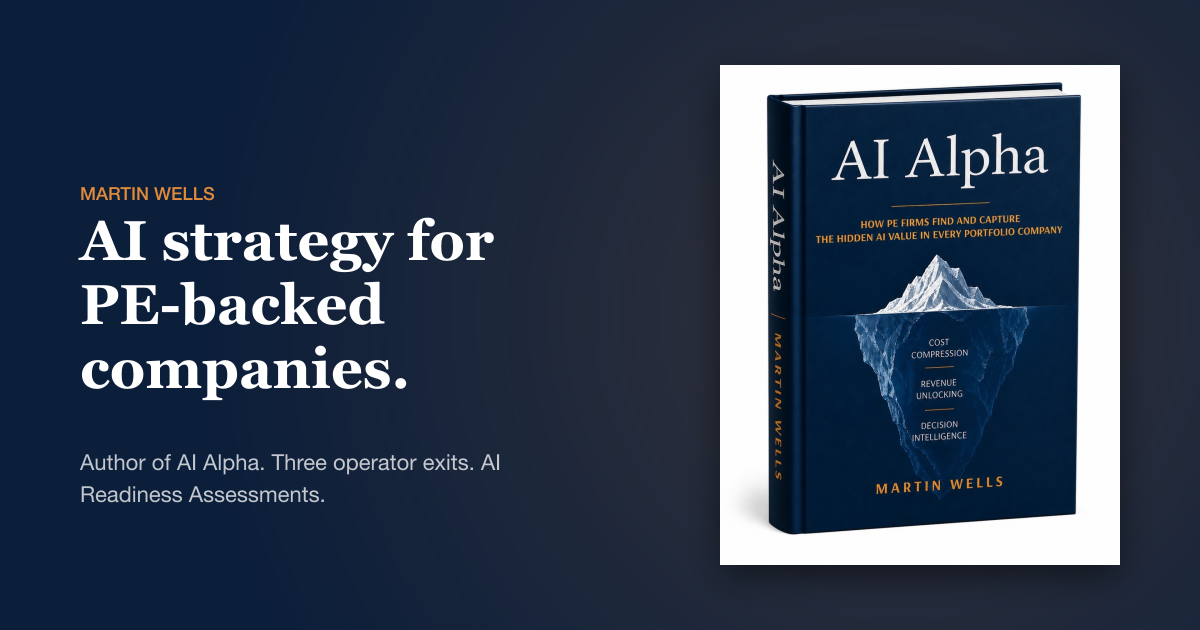
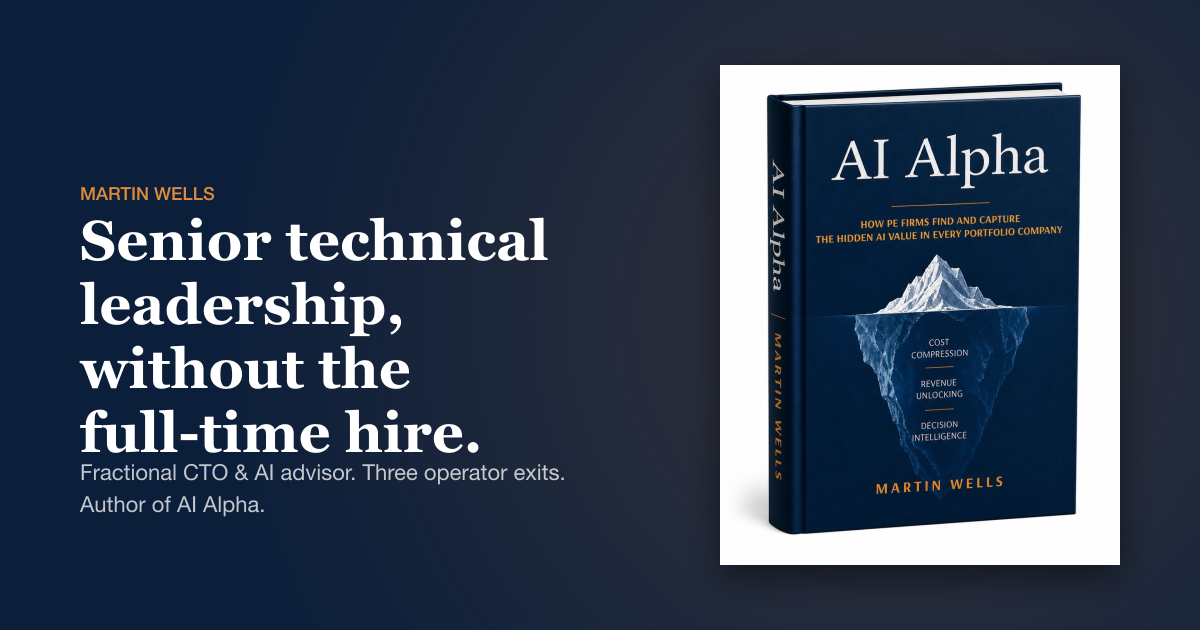
Reposition martinwells.com as a fractional CTO site
Shift the hero, offer, and tagline back to a fractional-CTO-for-startups
positioning. Keep AI Alpha as a secondary credibility prop — small book
treatment in the hero plus a dedicated short Book section above contact.

Sections: Hero, Proof (unchanged), Engagement (was Assessment), Book,
Contact.

OG image regenerated with the new headline.

Changed region(s): [[0.0617, 0.3317, 0.4625, 0.8143]]

diff --git a/frontend/projects/martinwells/Home.tsx b/frontend/projects/martinwells/Home.tsx
@@ -6,9 +6,9 @@ import { Calendar, Mail, BookOpen, Menu, X } from 'lucide-react'
 import './styles.css'
 
 const NAV_LINKS = [
-  { label: 'The Book', href: '#book' },
   { label: 'Track Record', href: '#proof' },
-  { label: 'The Assessment', href: '#offer' },
+  { label: 'The Engagement', href: '#offer' },
+  { label: 'The Book', href: '#book' },
   { label: 'Contact', href: '#contact' },
 ]
 
@@ -91,22 +91,21 @@ function Navbar() {
 
 function HeroSection() {
   return (
-    <section id="book" className="relative pt-28 pb-20 md:pt-32 md:pb-28 px-6 overflow-hidden">
-      <div className="max-w-6xl mx-auto grid md:grid-cols-[1.2fr_1fr] gap-12 md:gap-16 items-center">
+    <section className="relative pt-28 pb-20 md:pt-32 md:pb-28 px-6 overflow-hidden">
+      <div className="max-w-6xl mx-auto grid md:grid-cols-[1.4fr_1fr] gap-12 md:gap-16 items-center">
         <motion.div
           initial={{ opacity: 0, y: 20 }}
           animate={{ opacity: 1, y: 0 }}
           transition={{ duration: 0.7 }}
-          className="order-2 md:order-1"
         >
           <p className="text-xs tracking-[0.2em] uppercase text-[var(--mw-accent)] mb-5 font-semibold">
-            New from Martin Wells
+            Fractional CTO &middot; AI Advisor
           </p>
           <h1 className="mw-serif text-4xl md:text-6xl font-bold text-[var(--mw-foreground)] leading-[1.05] tracking-tight">
-            I help PE-backed companies turn AI into EBITDA.
+            Senior technical leadership, without the full-time hire.
           </h1>
           <p className="mt-6 text-lg md:text-xl text-[var(--mw-muted)] leading-relaxed max-w-xl">
-            A 3-week diagnostic identifies exactly where AI moves margin in your portfolio companies. Then I help you capture it.
+            I work alongside founders at YC, Series A, and Series B startups — owning architecture, hiring, AI integration, and the calls only a seasoned operator gets right.
           </p>
           <div className="mt-8 flex flex-col sm:flex-row gap-3">
             <a
@@ -117,30 +116,34 @@ function HeroSection() {
               Book a Call
             </a>
             <a
-              href={BOOK_URL}
+              href="#offer"
               className="inline-flex items-center justify-center gap-2 px-6 py-3.5 border border-[var(--mw-foreground)] text-[var(--mw-foreground)] font-semibold text-sm rounded-md hover:bg-[var(--mw-surface)] transition-colors"
             >
-              <BookOpen size={16} />
-              Get the Book
+              See the Engagement
             </a>
           </div>
           <p className="mt-8 text-sm text-[var(--mw-muted)] leading-relaxed max-w-xl">
-            Three operator exits. Advisor and technical co-founder to companies acquired by Meta, Sony, and AOL. $250M+ raised.
+            Three operator exits. Advisor to 30+ founders. Author of <a href={BOOK_URL} className="text-[var(--mw-foreground)] underline decoration-[var(--mw-accent)] decoration-2 underline-offset-4 hover:text-[var(--mw-accent)]"><em>AI Alpha</em></a>.
           </p>
         </motion.div>
 
-        <motion.div
+        <motion.a
+          href={BOOK_URL}
           initial={{ opacity: 0, scale: 0.96 }}
           animate={{ opacity: 1, scale: 1 }}
           transition={{ duration: 0.8, delay: 0.15 }}
-          className="order-1 md:order-2 flex justify-center md:justify-end"
+          className="hidden md:flex flex-col items-end gap-3 group"
+          aria-label="AI Alpha on Amazon"
         >
           <img
             src="/projects/martinwells/alpha-book-cover.jpg"
             alt="AI Alpha — How PE Firms Find and Capture the Hidden AI Value in Every Portfolio Company"
-            className="w-56 md:w-80 mw-cover-shadow rounded-sm"
+            className="w-56 mw-cover-shadow rounded-sm transition-transform group-hover:-translate-y-1"
           />
-        </motion.div>
+          <span className="text-xs text-[var(--mw-muted)] group-hover:text-[var(--mw-accent)] transition-colors flex items-center gap-1">
+            <BookOpen size={12} /> Author of AI Alpha
+          </span>
+        </motion.a>
       </div>
     </section>
   )
@@ -182,43 +185,43 @@ function ProofSection() {
 
 function OfferSection() {
   const deliverables = [
-    'Executive summary your IC or board can read in 5 minutes',
-    'Prioritized list of 5–7 AI initiatives, ranked by EBITDA impact',
-    'Quick-wins section — actions for the first 30 days using existing resources',
-    '6-month execution roadmap with required investment per initiative',
-    '60-minute executive briefing to walk through findings',
+    'Weekly architecture and roadmap review with your founders or product lead',
+    'Hands-on hiring help — JDs, sourcing, technical interviews, offer calls',
+    'Code-level mentorship for your senior engineers',
+    'Vendor, infrastructure, and build-vs-buy calls',
+    'AI integration strategy — what to ship, what to skip, what to defer',
   ]
   const audience = [
-    'PE operating partners and value creation teams running AI strategy across portfolio companies',
-    'CEOs of PE-backed companies ($10M–$100M revenue) who own the AI agenda directly',
-    'Boards weighing the AI investment thesis on a deal already in motion',
+    'Pre-seed and seed founders without a CTO who need someone in the room before the wrong architectural call gets baked in',
+    'Series A and B teams whose first technical hire needs a senior counterweight',
+    'Growth-stage companies adding AI to existing product and deciding what good looks like',
   ]
   return (
     <section id="offer" className="py-20 md:py-24 px-6">
       <div className="max-w-4xl mx-auto">
         <FadeIn>
           <p className="text-xs tracking-[0.2em] uppercase text-[var(--mw-accent)] mb-3 font-semibold">
-            The Offer
+            The Engagement
           </p>
           <h2 className="mw-serif text-3xl md:text-5xl font-bold text-[var(--mw-foreground)] leading-tight tracking-tight">
-            The AI Readiness Assessment
+            Fractional CTO, embedded in your team.
           </h2>
         </FadeIn>
 
         <div className="mt-8 md:mt-10 space-y-5 text-base md:text-lg text-[var(--mw-muted)] leading-relaxed">
           <FadeIn delay={0.05}>
             <p>
-              Most mid-market AI initiatives don&apos;t fail in the technology — they fail in the diagnosis. The result: $40K/month in tools nobody uses, pilots that never ship, and an EBITDA gap that nobody can quantify.
+              Most early-stage teams need a CTO long before they can afford one. I fill that gap. I sit alongside your founders and product team, own the technical calls a senior operator should own, and unblock the ones your engineers can&apos;t make alone.
             </p>
           </FadeIn>
           <FadeIn delay={0.1}>
             <p>
-              The AI Readiness Assessment is a 3-week engagement. I interview your CEO, CTO, and 3 department heads. I audit the tech stack, data infrastructure, and current AI spend. You get a 15-page report with a prioritized roadmap — 90 days, 6 months, 12 months — every initiative ranked by EBITDA impact, with the math.
+              Typical engagement: 8–12 hours per week, three-month minimum. I&apos;m in your standups, your slack, your hiring loop, and your architecture decisions. You get a senior technologist&apos;s judgement without the $400K salary, equity grant, or recruiting cycle.
             </p>
           </FadeIn>
           <FadeIn delay={0.15}>
             <p className="text-[var(--mw-foreground)] font-medium">
-              Fixed fee. Fixed scope. Fixed timeline. If the roadmap doesn&apos;t earn back 10× the assessment cost in year one, we shake hands and part friends.
+              Capped engagements. I take a small handful at a time so the founders I work with get my full attention.
             </p>
           </FadeIn>
         </div>
@@ -251,6 +254,42 @@ function OfferSection() {
             </ul>
           </FadeIn>
         </div>
+      </div>
+    </section>
+  )
+}
+
+function BookSection() {
+  return (
+    <section id="book" className="py-16 md:py-20 px-6 bg-[var(--mw-surface)]">
+      <div className="max-w-4xl mx-auto grid md:grid-cols-[auto_1fr] gap-8 md:gap-12 items-center">
+        <FadeIn>
+          <a href={BOOK_URL} aria-label="AI Alpha on Amazon" className="block md:flex-shrink-0">
+            <img
+              src="/projects/martinwells/alpha-book-cover.jpg"
+              alt="AI Alpha"
+              className="w-40 mx-auto md:mx-0 mw-cover-shadow rounded-sm"
+            />
+          </a>
+        </FadeIn>
+        <FadeIn delay={0.1}>
+          <p className="text-xs tracking-[0.2em] uppercase text-[var(--mw-accent)] mb-3 font-semibold">
+            The Book
+          </p>
+          <h2 className="mw-serif text-2xl md:text-3xl font-bold text-[var(--mw-foreground)] leading-tight tracking-tight mb-4">
+            AI Alpha
+          </h2>
+          <p className="text-base md:text-lg text-[var(--mw-muted)] leading-relaxed mb-6 max-w-xl">
+            <em>How PE Firms Find and Capture the Hidden AI Value in Every Portfolio Company.</em> Written for operators and investors who need to move from AI theatre to AI EBITDA. The diagnostic framework works just as well inside a startup.
+          </p>
+          <a
+            href={BOOK_URL}
+            className="inline-flex items-center gap-2 text-sm font-semibold text-[var(--mw-foreground)] underline decoration-[var(--mw-accent)] decoration-2 underline-offset-4 hover:text-[var(--mw-accent)] transition-colors"
+          >
+            <BookOpen size={14} />
+            Get the book on Amazon
+          </a>
+        </FadeIn>
       </div>
     </section>
   )
@@ -295,8 +334,7 @@ function Footer() {
   return (
     <footer className="bg-[var(--mw-foreground)] text-white/60 border-t border-white/10 py-8 px-6">
       <div className="max-w-5xl mx-auto text-center text-sm leading-relaxed">
-        © {new Date().getFullYear()} Martin Wells. Author of{' '}
-        <em className="text-white/80">AI Alpha: How PE Firms Find and Capture the Hidden AI Value in Every Portfolio Company.</em>
+        © {new Date().getFullYear()} Martin Wells. Fractional CTO and AI advisor.
       </div>
     </footer>
   )
@@ -310,6 +348,7 @@ export default function MartinWellsHome() {
         <HeroSection />
         <ProofSection />
         <OfferSection />
+        <BookSection />
         <ContactSection />
       </main>
       <Footer />

diff --git a/frontend/scripts/generate-martinwells-og.js b/frontend/scripts/generate-martinwells-og.js
@@ -43,11 +43,11 @@ async function main() {
 
   ctx.fillStyle = '#ffffff';
   ctx.font = 'bold 56px Georgia, "Times New Roman", serif';
-  wrapText(ctx, 'AI strategy for PE-backed companies.', 80, 260, 540, 64);
+  wrapText(ctx, 'Senior technical leadership, without the full-time hire.', 80, 260, 540, 64);
 
   ctx.fillStyle = 'rgba(255,255,255,0.75)';
   ctx.font = '400 22px "Helvetica Neue", Helvetica, Arial, sans-serif';
-  wrapText(ctx, 'Author of AI Alpha. Three operator exits. AI Readiness Assessments.', 80, 470, 520, 32);
+  wrapText(ctx, 'Fractional CTO & AI advisor. Three operator exits. Author of AI Alpha.', 80, 480, 520, 32);
 
   // Save
   const outPath = path.join(__dirname, '../public/projects/martinwells/og-image.png');
